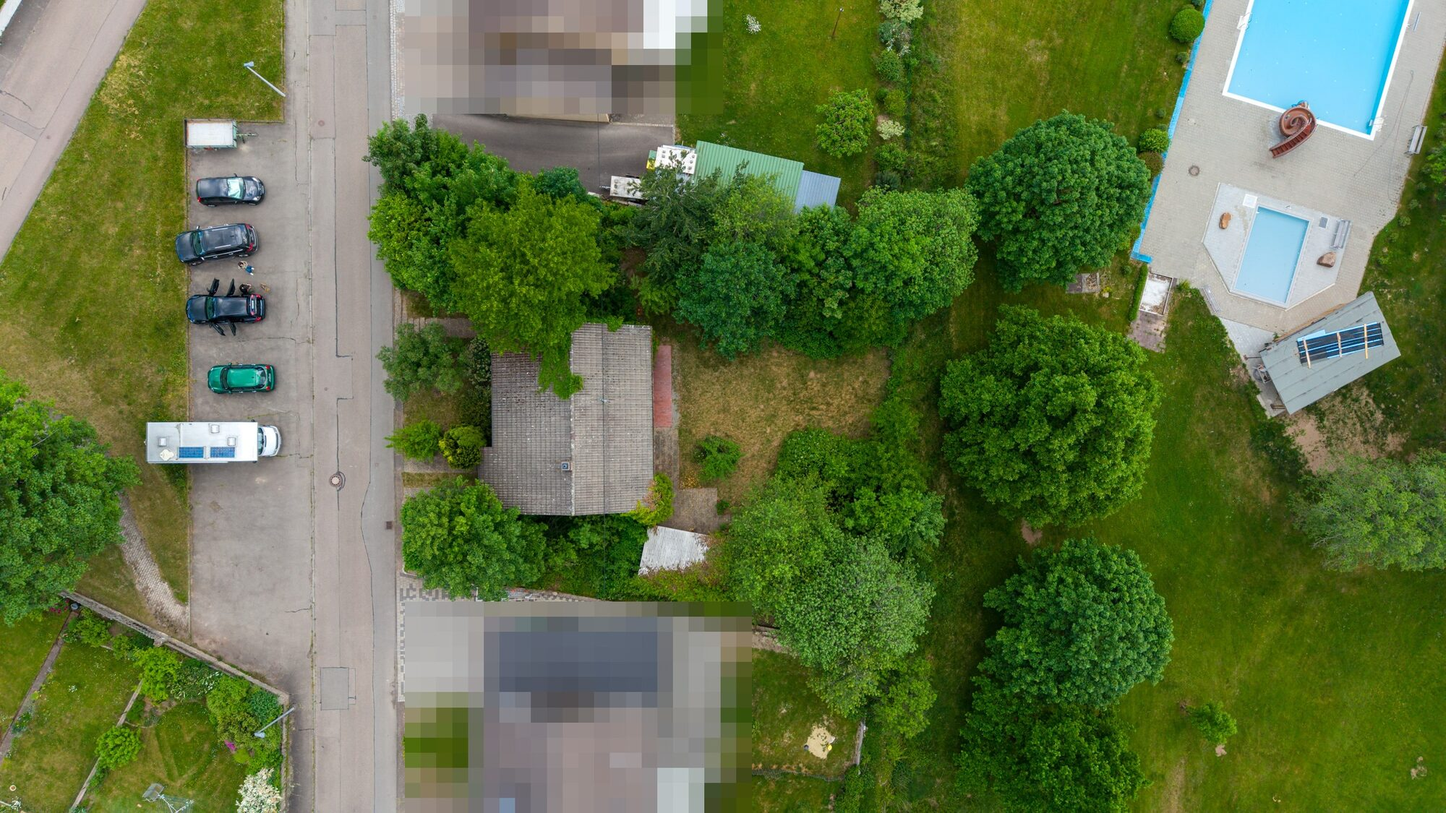
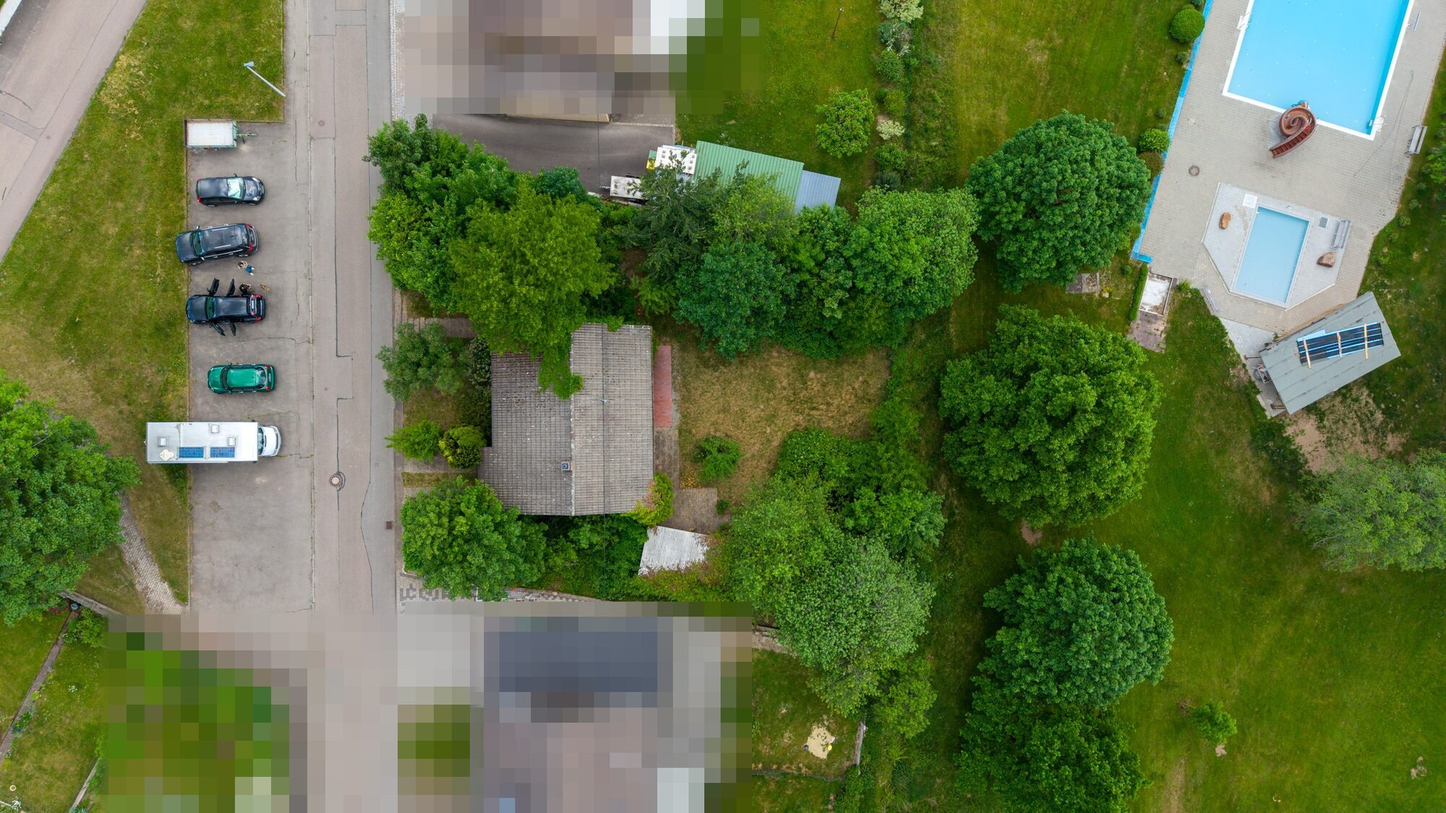
feat: apply Anke's photo feedback, add legacy comparison page
Rework the gallery and header per Anke's feedback, and keep the
previous version reachable for comparison without bloating the repo.

- Gallery: curated order interleaving exterior/interior/aerial, strongest
  shots first; drop the unattractive basement shot (#35) from the live site
- Hero: pin cover to the sunny diagonal terrace view (no neighbour house,
  no facade stains)
- Re-pixelate 13 drone aerials with a clean feathered mosaic over neighbour
  houses (subject house/garden/pool stay sharp)
- Add index2.html: the pre-rework page (original order + cover, basement shot
  shown), built from the same Vue source and image assets. Multi-page Vite
  build dedupes every WebP variant, so the legacy page adds no image weight.

diff --git a/src/images.js b/src/images.js
@@ -32,13 +32,126 @@ const entries = Object.keys(thumbs).map((path) => ({
   name: path.split('/').pop(),
 }))
 
-const group = (predicate) =>
-  entries
-    .filter((e) => predicate(e.name))
-    .sort((a, b) => collator.compare(a.name, b.name))
+// Curated display order. Per feedback, the three blocks (exterior / interior /
+// aerial) are interleaved and the strongest, most varied shots lead — visitors
+// browse the first ~15 and lose interest if it isn't varied. Files NOT listed
+// here append at the end in natural order, so dropping a new photo into the
+// folder still works automatically (it just lands last until placed).
+const order = [
+  // — Opening 15: strongest shots, rotating exterior / interior / aerial —
+  '_KWF1978-HDR.jpg', // balcony view to the forest edge
+  '_KWF2023-HDR.jpg', // sunroom with wood-burning stove
+  'VS-Tannheim-21.jpg', // clean aerial: house front + garage
+  '_KWF1966-HDR.jpg', // balcony into greenery
+  '_KWF2050-HDR.jpg', // mid-century wood stair landing
+  'VS-Tannheim-20.jpg', // clean aerial: house front
+  '_KWF1972-HDR.jpg', // elevated view over the green garden
+  '_KWF2014-HDR.jpg', // living room, wood ceiling + stove
+  '_KWF1954-HDR.jpg', // brick terrace + garden
+  'VS-Tannheim-7.jpg', // aerial: garden side
+  '_KWF2011-HDR.jpg', // hallway with open staircase
+  '_KWF1957-HDR.jpg', // lush green garden
+  'VS-Tannheim-14.jpg', // aerial: overview + pool
+  '_KWF2029-HDR.jpg', // bright open room, garden view
+  '_KWF1969-HDR.jpg', // balcony over the garden
+  // — Strong remainder, still rotating —
+  'VS-Tannheim-3.jpg',
+  '_KWF2017-HDR.jpg',
+  '_KWF2002-HDR.jpg', // (also the hero cover)
+  '_KWF2020-HDR.jpg',
+  'VS-Tannheim-23.jpg',
+  '_KWF1975-HDR.jpg',
+  '_KWF2026-HDR.jpg',
+  '_KWF1960-HDR.jpg',
+  '_KWF2056-HDR.jpg',
+  '_KWF1942-HDR.jpg',
+  '_KWF2059-HDR.jpg',
+  'VS-Tannheim-1.jpg',
+  '_KWF2110-HDR.jpg',
+  '_KWF1948-HDR.jpg',
+  '_KWF2065-HDR.jpg',
+  // — Mid tier —
+  'VS-Tannheim-13.jpg',
+  '_KWF1963-HDR.jpg',
+  '_KWF2068-HDR.jpg',
+  'VS-Tannheim-12.jpg',
+  '_KWF1981-HDR.jpg',
+  '_KWF2089-HDR.jpg',
+  'VS-Tannheim-5.jpg',
+  '_KWF1993-HDR.jpg',
+  '_KWF2083-HDR.jpg',
+  'VS-Tannheim-24.jpg',
+  '_KWF1996-HDR.jpg',
+  '_KWF1945-HDR.jpg',
+  'VS-Tannheim-2.jpg',
+  '_KWF1999-HDR.jpg',
+  '_KWF2005-HDR.jpg',
+  'VS-Tannheim-26.jpg', // pending clean re-pixelation
+  '_KWF2008-HDR.jpg',
+  '_KWF2116-HDR.jpg',
+  'VS-Tannheim-18.jpg', // pending clean re-pixelation
+  'VS-Tannheim-4.jpg',
+  'VS-Tannheim-15.jpg',
+  // — Weaker shots —
+  '_KWF2053-HDR.jpg',
+  'VS-Tannheim-22.jpg',
+  '_KWF2062-HDR.jpg',
+  '_KWF2071-HDR.jpg',
+  'VS-Tannheim-6.jpg',
+  '_KWF2074-HDR.jpg',
+  '_KWF1951-HDR.jpg',
+  'VS-Tannheim-9.jpg',
+  '_KWF2080-HDR.jpg',
+  '_KWF1984-HDR.jpg',
+  'VS-Tannheim-8.jpg',
+  '_KWF2086-HDR.jpg',
+  '_KWF1987-HDR.jpg',
+  'VS-Tannheim-10.jpg',
+  '_KWF2098.jpg',
+  '_KWF1990-HDR.jpg',
+  'VS-Tannheim-11.jpg',
+  '_KWF2107-HDR.jpg',
+  'VS-Tannheim-16.jpg',
+  'VS-Tannheim-17.jpg', // pending clean re-pixelation
+  'VS-Tannheim-19.jpg',
+  'VS-Tannheim-25.jpg', // pending clean re-pixelation
+  // — Utility / technical rooms, least attractive: kept last —
+  '_KWF2032-HDR.jpg',
+  '_KWF2035-HDR.jpg',
+  '_KWF2038-HDR.jpg',
+  '_KWF2041-HDR.jpg',
+  '_KWF2047-HDR.jpg',
+  '_KWF2104-HDR.jpg',
+]
+const rank = new Map(order.map((name, i) => [name, i]))
+const rankOf = (name) => (rank.has(name) ? rank.get(name) : Number.POSITIVE_INFINITY)
 
-// Array of { thumb, thumbset, full } objects, pro shots first.
-export const photos = [
+const strip = ({ thumb, thumbset, full }) => ({ thumb, thumbset, full })
+
+// Anke asked to drop the unattractive basement shot from the live site. The
+// file stays in the folder (the legacy page below still shows it), so the new
+// gallery filters it out explicitly rather than by removing the source.
+const DROPPED_FROM_NEW = new Set(['_KWF2044-HDR.jpg'])
+
+// — New site (index.html): curated order, weakest shots dropped. —
+export const photos = entries
+  .filter((e) => !DROPPED_FROM_NEW.has(e.name))
+  .sort((a, b) => {
+    const diff = rankOf(a.name) - rankOf(b.name)
+    return diff !== 0 ? diff : collator.compare(a.name, b.name)
+  })
+  .map(strip)
+
+// — Legacy site (index2.html): the original order — pro HDR shots first, then
+// the drone set, each natural-sorted; nothing dropped. Same source images, so
+// the build shares every WebP variant with the new page (no duplication). —
+const group = (predicate) =>
+  entries.filter((e) => predicate(e.name)).sort((a, b) => collator.compare(a.name, b.name))
+
+const legacyEntries = [
   ...group((n) => n.startsWith('_KWF')),
   ...group((n) => n.startsWith('VS-Tannheim')),
-].map(({ thumb, thumbset, full }) => ({ thumb, thumbset, full }))
+]
+export const photosLegacy = legacyEntries.map(strip)
+// Legacy hero used the first gallery photo as its cover.
+export const coverLegacy = legacyEntries[0].full

diff --git a/src/components/Gallery.vue b/src/components/Gallery.vue
@@ -1,17 +1,20 @@
 <script setup>
 import { ref, computed } from 'vue'
-import { photos } from '../images.js'
+import { photos, photosLegacy } from '../images.js'
 import Lightbox from './Lightbox.vue'
+
+const props = defineProps({ variant: { type: String, default: 'new' } })
+const pics = computed(() => (props.variant === 'legacy' ? photosLegacy : photos))
 
 const current = ref(-1) // -1 = closed
 const open = (i) => (current.value = i)
 const close = () => (current.value = -1)
-const prev = () => (current.value = (current.value - 1 + photos.length) % photos.length)
-const next = () => (current.value = (current.value + 1) % photos.length)
+const prev = () => (current.value = (current.value - 1 + pics.value.length) % pics.value.length)
+const next = () => (current.value = (current.value + 1) % pics.value.length)
 
 const INITIAL = 12
 const expanded = ref(false)
-const visible = computed(() => (expanded.value ? photos : photos.slice(0, INITIAL)))
+const visible = computed(() => (expanded.value ? pics.value : pics.value.slice(0, INITIAL)))
 
 // Editorial rhythm: a repeating pattern of spans breaks the uniform grid.
 // Pattern cycles every 6 tiles across a 6-column desktop grid.
@@ -41,7 +44,7 @@ const sizesFor = (i) =>
           </h2>
         </div>
         <p class="max-w-sm text-sm leading-relaxed text-stone-300">
-          {{ photos.length }} Aufnahmen vom Haus, dem Grundstück und der Umgebung. Zum Vergrößern
+          {{ pics.length }} Aufnahmen vom Haus, dem Grundstück und der Umgebung. Zum Vergrößern
           ein Bild auswählen.
         </p>
       </div>
@@ -53,7 +56,7 @@ const sizesFor = (i) =>
           <button
             type="button"
             class="group relative block h-full w-full overflow-hidden rounded-lg bg-forest-900 focus:outline-none focus-visible:ring-2 focus-visible:ring-clay-400 focus-visible:ring-offset-2 focus-visible:ring-offset-forest-950"
-            :aria-label="`Foto ${i + 1} von ${photos.length} vergrößern`"
+            :aria-label="`Foto ${i + 1} von ${pics.length} vergrößern`"
             @click="open(i)"
           >
             <img
@@ -70,13 +73,13 @@ const sizesFor = (i) =>
         </li>
       </ul>
 
-      <div v-if="!expanded && photos.length > INITIAL" class="mt-10 text-center" v-reveal>
+      <div v-if="!expanded && pics.length > INITIAL" class="mt-10 text-center" v-reveal>
         <button
           type="button"
           class="inline-flex items-center gap-2 rounded-full border border-stone-400/40 px-7 py-3 text-sm font-semibold text-stone-100 transition-colors duration-200 hover:border-clay-400 hover:text-clay-400"
           @click="expanded = true"
         >
-          Alle {{ photos.length }} Fotos ansehen
+          Alle {{ pics.length }} Fotos ansehen
           <span aria-hidden="true">↓</span>
         </button>
       </div>
@@ -84,9 +87,9 @@ const sizesFor = (i) =>
 
     <Lightbox
       v-if="current >= 0"
-      :src="photos[current].full"
+      :src="pics[current].full"
       :index="current"
-      :total="photos.length"
+      :total="pics.length"
       @close="close"
       @prev="prev"
       @next="next"

diff --git a/index2.html b/index2.html
@@ -1,0 +1,18 @@
+<!DOCTYPE html>
+<!-- Legacy page: the homepage as it was before Anke's photo/header rework
+     (original gallery order + cover, basement shot still shown). Built from the
+     same Vue source and image assets as index.html — kept for old-vs-new
+     comparison. noindex so search engines ignore it. Safe to delete later. -->
+<html lang="de">
+  <head>
+    <meta charset="UTF-8" />
+    <meta name="viewport" content="width=device-width, initial-scale=1.0" />
+    <meta name="robots" content="noindex" />
+    <title>Frühere Version — Architektenhaus am Waldrand, Tannheim</title>
+    <link rel="canonical" href="https://haus-tannheim.de/" />
+  </head>
+  <body>
+    <div id="app"></div>
+    <script type="module" src="/src/main.legacy.js"></script>
+  </body>
+</html>

diff --git a/src/App.vue b/src/App.vue
@@ -1,6 +1,10 @@
 <script setup>
 import { ref, onMounted, onUnmounted } from 'vue'
 import Hero from './components/Hero.vue'
+
+// 'new' (index.html, Anke's rework) or 'legacy' (index2.html, pre-rework
+// gallery order + cover). Set by the page's entry file; defaults to 'new'.
+defineProps({ variant: { type: String, default: 'new' } })
 import Facts from './components/Facts.vue'
 import Gallery from './components/Gallery.vue'
 import Description from './components/Description.vue'
@@ -66,10 +70,10 @@ const nav = [
   </Transition>
 
   <main id="top">
-    <Hero />
+    <Hero :variant="variant" />
     <Facts />
     <Description />
-    <Gallery />
+    <Gallery :variant="variant" />
     <LeadForm />
     <Contact />
   </main>

diff --git a/src/components/Hero.vue b/src/components/Hero.vue
@@ -1,6 +1,14 @@
 <script setup>
-import { photos } from '../images.js'
-const cover = photos[0].full
+import { computed } from 'vue'
+import { coverLegacy } from '../images.js'
+
+// New cover is pinned to a specific shot (Anke's pick: diagonal terrace view,
+// sunny, no neighbour house, no facade stains) — independent of gallery order.
+// The legacy page keeps its original cover (first gallery photo).
+import coverNew from '../assets/images/_KWF2002-HDR.jpg?w=1920&format=webp&quality=80'
+
+const props = defineProps({ variant: { type: String, default: 'new' } })
+const cover = computed(() => (props.variant === 'legacy' ? coverLegacy : coverNew))
 </script>
 
 <template>

diff --git a/src/main.legacy.js b/src/main.legacy.js
@@ -1,0 +1,14 @@
+import { createApp } from 'vue'
+
+// Entry for the legacy page (index2.html): same app, mounted in 'legacy'
+// variant — original gallery order + cover, kept for old-vs-new comparison.
+// Shares all image assets with the new page via the same source imports.
+import '@fontsource-variable/fraunces/opsz.css'
+import '@fontsource-variable/fraunces/opsz-italic.css'
+import '@fontsource-variable/hanken-grotesk/wght.css'
+
+import './style.css'
+import App from './App.vue'
+import { reveal } from './reveal.js'
+
+createApp(App, { variant: 'legacy' }).directive('reveal', reveal).mount('#app')

diff --git a/vite.config.js b/vite.config.js
@@ -8,4 +8,14 @@ import { imagetools } from 'vite-imagetools'
 export default defineConfig({
   base: './',
   plugins: [vue(), tailwindcss(), imagetools()],
+  build: {
+    // Two pages: the live site and the legacy comparison page. They share the
+    // same source images, so imagetools emits each WebP variant only once.
+    rollupOptions: {
+      input: {
+        main: 'index.html',
+        legacy: 'index2.html',
+      },
+    },
+  },
 })
